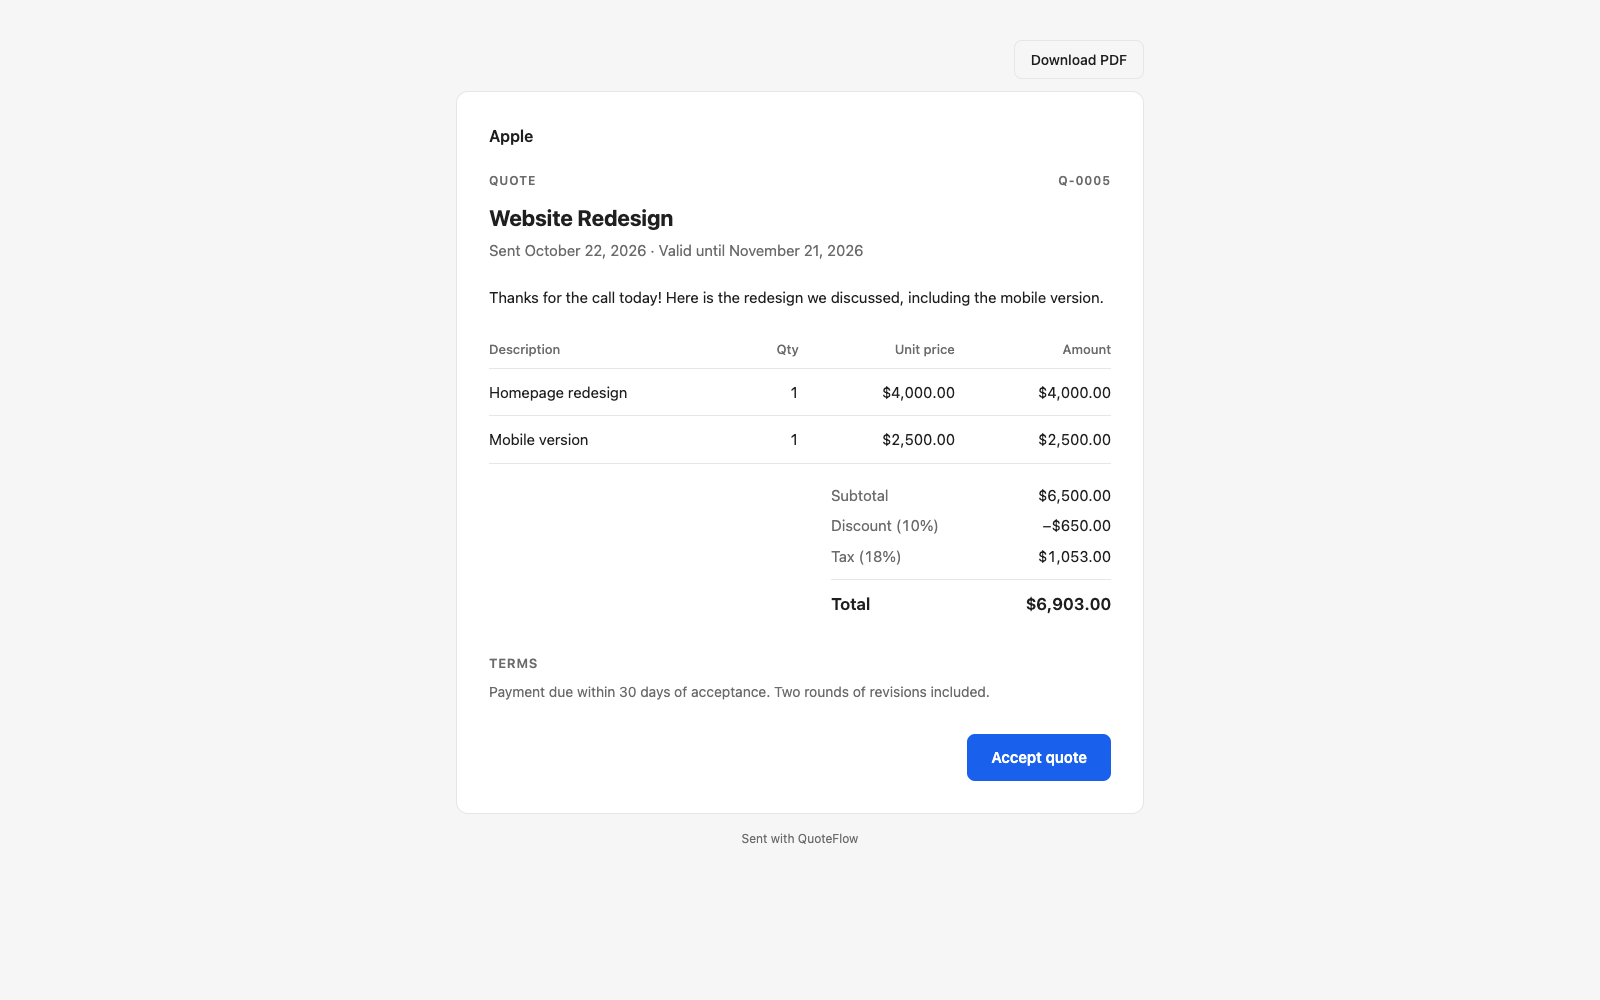
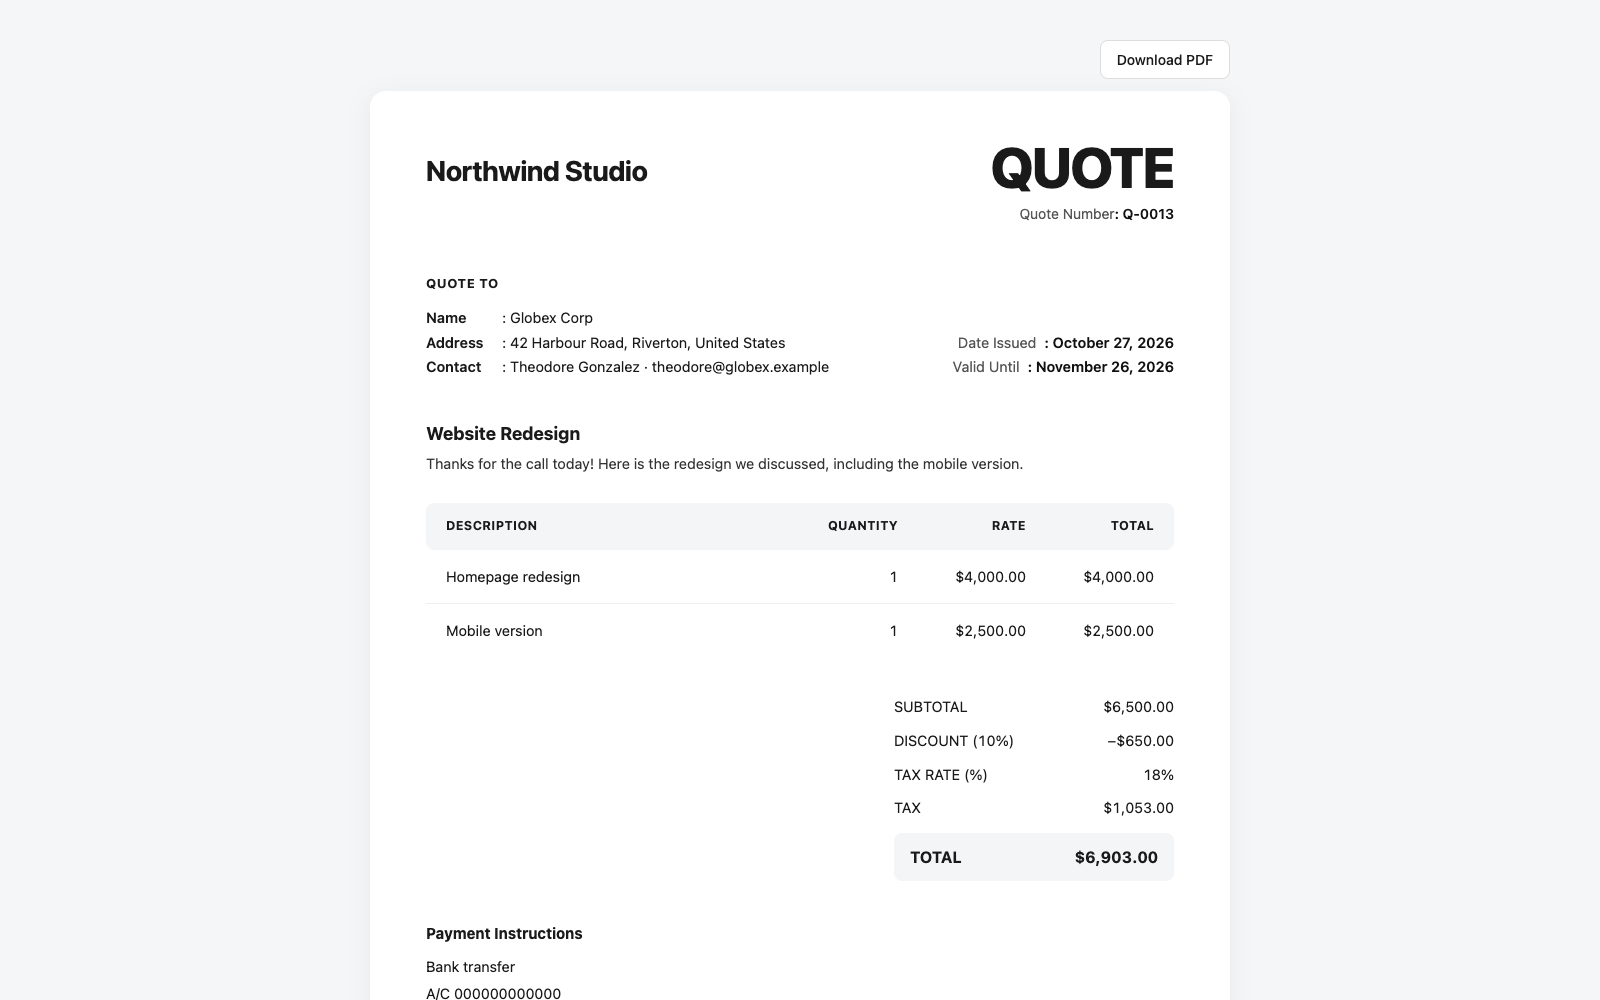
Close pre-launch gaps found in the audit
- Count trial sends from the highest quote number, so deleting sent quotes frees no slots
- Report a non-JSON reply from Dodo as a Dodo error instead of crashing
- Keep quote links out of referrers on client pages
- Use an obviously fake bank example in the README
- Retake the marketplace screenshots with a fictional seller and client

diff --git a/e2e/marketplace-screenshots.e2e.ts b/e2e/marketplace-screenshots.e2e.ts
@@ -4,7 +4,9 @@ import {
   createDeal,
   createQuote,
   destroyDeals,
+  gqlData,
   isoDateFromToday,
+  metadata,
   publicQuoteUrl,
   sendQuote,
 } from 'src/__tests__/quote-flow-helpers';
@@ -12,17 +14,76 @@ import {
 // Captures the marketplace gallery images (8:5, 1600×1000) from the design doc's example.
 // Not a test: run it on purpose with
 //   CAPTURE_SCREENSHOTS=1 yarn test:e2e e2e/marketplace-screenshots.e2e.ts
+// Set the seller details to a fictional business first: the images are public, so they must not
+// show real brands, logos or bank details.
 test.skip(!process.env.CAPTURE_SCREENSHOTS, 'Set CAPTURE_SCREENSHOTS=1 to capture screenshots.');
 
 const SIZE = { width: 1600, height: 1000 };
 const DEMO_MEMBER_EMAIL = 'tim@apple.dev';
 const DEMO_MEMBER_PASSWORD = 'tim@apple.dev';
 
+// The dev image names its demo workspace after a real company; the gallery shows this instead.
+const WORKSPACE_NAME_IN_IMAGES = 'Northwind Studio';
+
 const createdDeals: string[] = [];
+const createdRecords: { kind: 'Person' | 'Company'; id: string }[] = [];
 
 test.afterAll(async () => {
   await destroyDeals(createdDeals);
+
+  // People first: they point at the company.
+  for (const { kind, id } of createdRecords.reverse()) {
+    await gqlData(`mutation($id: UUID!) { destroy${kind}(id: $id) { id } }`, { id });
+  }
 });
+
+// A fictional client, so the quote's "Quote to" block is filled in.
+const createClient = async (opportunityId: string) => {
+  const { createCompany } = await gqlData<{ createCompany: { id: string } }>(
+    `mutation($d: CompanyCreateInput!) { createCompany(data: $d) { id } }`,
+    {
+      d: {
+        name: 'Globex Corp',
+        address: { addressStreet1: '42 Harbour Road', addressCity: 'Riverton', addressCountry: 'United States' },
+      },
+    },
+  );
+
+  createdRecords.push({ kind: 'Company', id: createCompany.id });
+
+  const { createPerson } = await gqlData<{ createPerson: { id: string } }>(
+    `mutation($d: PersonCreateInput!) { createPerson(data: $d) { id } }`,
+    {
+      d: {
+        name: { firstName: 'Theodore', lastName: 'Gonzalez' },
+        emails: { primaryEmail: 'theodore@globex.example' },
+        companyId: createCompany.id,
+      },
+    },
+  );
+
+  createdRecords.push({ kind: 'Person', id: createPerson.id });
+
+  await gqlData(`mutation($id: UUID!, $d: OpportunityUpdateInput!) { updateOpportunity(id: $id, data: $d) { id } }`, {
+    id: opportunityId,
+    d: { companyId: createCompany.id, pointOfContactId: createPerson.id },
+  });
+};
+
+// Only changes the captured image, not the workspace.
+const renameWorkspaceInPage = (page: Page, from: string) =>
+  page.evaluate(
+    ({ from, to }) => {
+      const walker = document.createTreeWalker(document.body, NodeFilter.SHOW_TEXT);
+
+      for (let node = walker.nextNode(); node; node = walker.nextNode()) {
+        if (node.textContent?.trim() === from) {
+          node.textContent = to;
+        }
+      }
+    },
+    { from, to: WORKSPACE_NAME_IN_IMAGES },
+  );
 
 test.use({ colorScheme: 'light', viewport: SIZE, deviceScaleFactor: 1 });
 
@@ -36,12 +97,13 @@ const signIn = async (page: Page) => {
 };
 
 test('capture the Quote tab and the client page', async ({ page, browser }) => {
-  const dealId = await createDeal('Acme Corp – Website Redesign', 'PROPOSAL', {
+  const dealId = await createDeal('Globex Corp – Website Redesign', 'PROPOSAL', {
     exactName: true,
     amount: 6500,
   });
 
   createdDeals.push(dealId);
+  await createClient(dealId);
 
   const quoteId = await createQuote(dealId, {
     name: 'Website Redesign',
@@ -83,6 +145,11 @@ test('capture the Quote tab and the client page', async ({ page, browser }) => {
     }
   }
 
+  const workspace = await metadata<{ currentWorkspace: { displayName: string } }>(
+    '{ currentWorkspace { displayName } }',
+  );
+
+  await renameWorkspaceInPage(page, workspace.data?.currentWorkspace.displayName ?? 'Apple');
   await page.screenshot({ path: 'public/screenshot-editor.png' });
 
   const token = await sendQuote(quoteId);

diff --git a/src/utils/billing-server.ts b/src/utils/billing-server.ts
@@ -24,6 +24,7 @@ const CUSTOMER_KEY = 'billing:customer';
 const ENTITLEMENT_CACHE_KEY = 'billing:entitlement';
 const TRIAL_STARTED_KEY = 'billing:trial-started-at';
 const LIFETIME_SOLD_KEY = 'billing:lifetime-sold';
+const HIGHEST_NUMBER_KEY = 'billing:highest-quote-number';
 const PAID_CACHE_MS = 60 * 60 * 1000;
 // Short, so a workspace that just paid is unblocked within a minute.
 const UNPAID_CACHE_MS = 60 * 1000;
@@ -209,8 +210,24 @@ const getTrialStartedAt = async () => {
   return now;
 };
 
+// Quote numbers only go up, so the highest one handed out is how many quotes were ever sent,
+// even after some are deleted. Called each time a quote gets its number.
+// The quote is already sent by then, so a failure here is logged rather than reported.
+export const recordQuoteNumber = async (number: number) => {
+  try {
+    const highest = (await kv.get<number>(HIGHEST_NUMBER_KEY)) ?? 0;
+
+    if (number > highest) {
+      await kv.set(HIGHEST_NUMBER_KEY, number);
+    }
+  } catch (error) {
+    console.warn('Could not record the quote number for the trial count.', error);
+  }
+};
+
 // Quotes ever sent in the workspace: every sent quote gets a number, and keeps it when withdrawn.
-// Runs as the app so every member's quotes count toward the trial.
+// The stored highest number covers quotes deleted since; the count covers quotes sent before it
+// was stored. Runs as the app so every member's quotes count toward the trial.
 export const countSentQuotes = async () => {
   const { quotes } = await new CoreApiClient({ runAs: 'application' }).query({
     quotes: {
@@ -219,7 +236,7 @@ export const countSentQuotes = async () => {
     },
   });
 
-  return quotes?.edges.length ?? 0;
+  return Math.max(quotes?.edges.length ?? 0, (await kv.get<number>(HIGHEST_NUMBER_KEY)) ?? 0);
 };
 
 export const getPlanStatus = async (): Promise<PlanStatus> => {

diff --git a/src/utils/billing-server.test.ts b/src/utils/billing-server.test.ts
@@ -14,7 +14,20 @@ vi.mock('twenty-sdk/logic-function', () => ({
   },
 }));
 
-const { getEntitlement, isLifetimeAvailable } = await import('src/utils/billing-server');
+// Quotes the app can see that have a number, as the trial count reads them.
+let numberedQuotes = 0;
+
+vi.mock('twenty-client-sdk/core', () => ({
+  CoreApiClient: class {
+    query = async () => ({
+      quotes: { edges: Array.from({ length: numberedQuotes }, (_, index) => ({ node: { id: `q${index}` } })) },
+    });
+  },
+}));
+
+const { countSentQuotes, getEntitlement, isLifetimeAvailable, recordQuoteNumber } = await import(
+  'src/utils/billing-server'
+);
 
 const jsonResponse = (status: number, payload: unknown) =>
   new Response(JSON.stringify(payload), { status, headers: { 'Content-Type': 'application/json' } });
@@ -140,5 +153,34 @@ describe('isLifetimeAvailable', () => {
 
     await expect(isLifetimeAvailable()).resolves.toBe(false);
     expect(fetchMock).not.toHaveBeenCalled();
+  });
+});
+
+describe('countSentQuotes', () => {
+  beforeEach(() => {
+    numberedQuotes = 0;
+  });
+
+  it('counts the sent quotes in the workspace', async () => {
+    numberedQuotes = 4;
+
+    expect(await countSentQuotes()).toBe(4);
+  });
+
+  it('still counts quotes that were sent and then deleted', async () => {
+    for (const number of [1, 2, 3, 4, 5, 6]) {
+      await recordQuoteNumber(number);
+    }
+
+    numberedQuotes = 2;
+
+    expect(await countSentQuotes()).toBe(6);
+  });
+
+  it('never lowers the recorded number', async () => {
+    await recordQuoteNumber(7);
+    await recordQuoteNumber(3);
+
+    expect(await countSentQuotes()).toBe(7);
   });
 });

diff --git a/src/utils/quote-status-actions.ts b/src/utils/quote-status-actions.ts
@@ -4,7 +4,7 @@ import { Response, type RoutePayload } from 'twenty-sdk/logic-function';
 import { QuoteStatus } from 'src/objects/quote.object';
 import { generatePublicToken } from 'src/utils/public-quote-token';
 import { canSendAnotherQuote, trialOverMessage } from 'src/utils/billing';
-import { getBillingConfig, getPlanStatus } from 'src/utils/billing-server';
+import { getBillingConfig, getPlanStatus, recordQuoteNumber } from 'src/utils/billing-server';
 import { logQuoteActivity } from 'src/utils/quote-activity';
 import { isQuoteExpired, toQuoteReference } from 'src/utils/quote-details';
 
@@ -155,6 +155,7 @@ const sendLoadedQuote = async (quote: QuoteForAction): Promise<number> => {
   for (let attempt = 1; ; attempt++) {
     try {
       await updateQuoteAsApp(quote.id, { ...sendData, number: candidate });
+      await recordQuoteNumber(candidate);
 
       return candidate;
     } catch (error) {

diff --git a/src/utils/billing.test.ts b/src/utils/billing.test.ts
@@ -282,4 +282,16 @@ describe('createDodoClient', () => {
     await expect(attempt).rejects.toBeInstanceOf(DodoError);
     await expect(attempt).rejects.toThrow('Invalid API key');
   });
+
+  it('reports an HTML outage page as a Dodo error', async () => {
+    const dodo = createDodoClient({
+      apiKey: 'key',
+      mode: 'test',
+      fetchImpl: recordingFetch([new Response('<html>502 Bad Gateway</html>', { status: 502 })]).fetchImpl,
+    });
+    const attempt = dodo.findPayingSubscriptionProduct({ customerId: 'cus_1', productIds: ['pdt_monthly'] });
+
+    await expect(attempt).rejects.toBeInstanceOf(DodoError);
+    await expect(attempt).rejects.toThrow('unreadable response (502)');
+  });
 });

diff --git a/src/utils/billing.ts b/src/utils/billing.ts
@@ -127,7 +127,14 @@ export const createDodoClient = ({
       body: body === undefined ? undefined : JSON.stringify(body),
     });
     const text = await response.text();
-    const payload = (text ? JSON.parse(text) : {}) as T & { message?: string; error?: string };
+    let payload: T & { message?: string; error?: string };
+
+    // An outage or a proxy can answer with an HTML page instead of JSON.
+    try {
+      payload = text ? JSON.parse(text) : {};
+    } catch {
+      throw new DodoError(`Dodo Payments returned an unreadable response (${response.status}).`, response.status);
+    }
 
     if (!response.ok) {
       throw new DodoError(

diff --git a/src/utils/public-quote-page.test.ts b/src/utils/public-quote-page.test.ts
@@ -113,6 +113,14 @@ describe('renderMessagePage', () => {
     expect(html).toContain('&lt;b&gt;Oops&lt;/b&gt;');
     expect(html).toContain('a &lt; b');
   });
+
+  // The quote link is a secret, so it must not reach search engines or the sites the page links to.
+  it('keeps the page out of search results and its address out of referrers', () => {
+    const html = renderMessagePage('Title', 'Message');
+
+    expect(html).toContain('<meta name="robots" content="noindex, nofollow">');
+    expect(html).toContain('<meta name="referrer" content="no-referrer">');
+  });
 });
 
 describe('escapeHtml', () => {

diff --git a/src/utils/public-quote-page.ts b/src/utils/public-quote-page.ts
@@ -231,6 +231,7 @@ const renderDocument = (
 <meta charset="utf-8">
 <meta name="viewport" content="width=device-width, initial-scale=1">
 <meta name="robots" content="noindex, nofollow">
+<meta name="referrer" content="no-referrer">
 <title>${escapeHtml(title)}</title>
 <style>${STYLES}${accentColor ? `:root { --accent: ${accentColor}; }` : ''}</style>
 ${autoPrint ? AUTO_PRINT_SCRIPT : ''}

diff --git a/README.md b/README.md
@@ -58,7 +58,7 @@ Find these under **Settings → Apps → QuoteFlow → Variables**.
 | Seller logo URL | A public `https://` link to your logo. Leave empty to use your workspace logo, if you have one. |
 | Seller address, email, phone, website | Contact details in the quote footer. Separate address lines with commas. |
 | Tax ID | Your tax registration, for example a GSTIN or VAT number. |
-| Payment instructions | Optional bank or UPI details. A vertical bar (`\|`) starts a new line, for example `HDFC Bank \| A/C 50100123456789 \| IFSC HDFC0001234`. |
+| Payment instructions | Optional bank or UPI details. A vertical bar (`\|`) starts a new line, for example `Your Bank \| A/C 000000000000 \| IFSC XXXX0000000`. |
 | Brand color | Accent color as a hex code, for example `#1961ED`. |
 | Default message, Default terms | What new quotes start with. Each quote can still be changed. |
 
